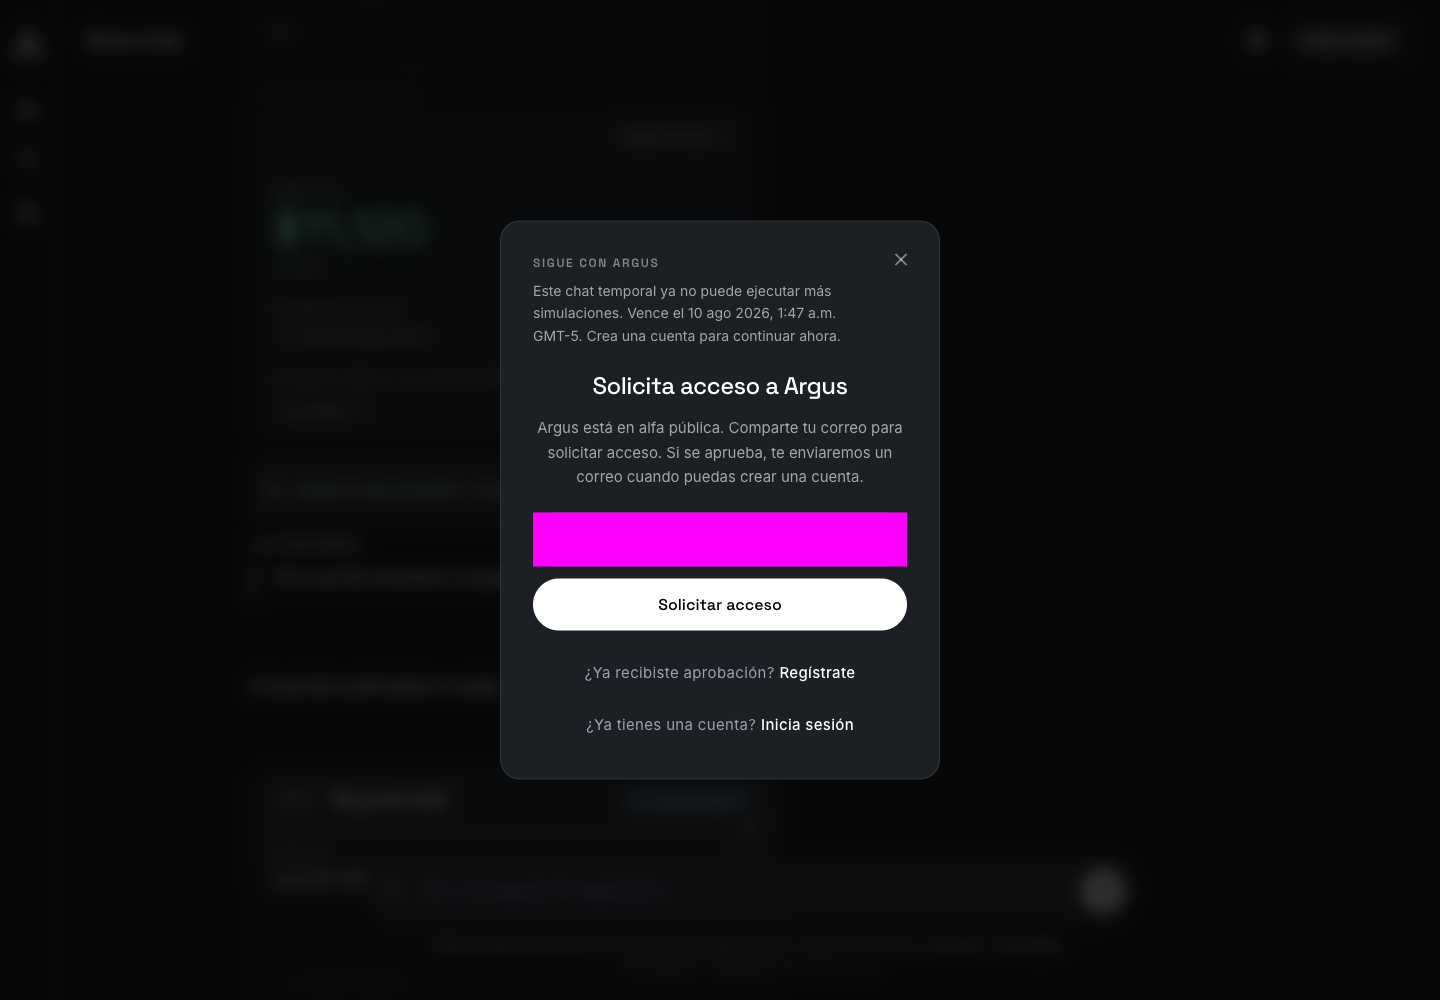
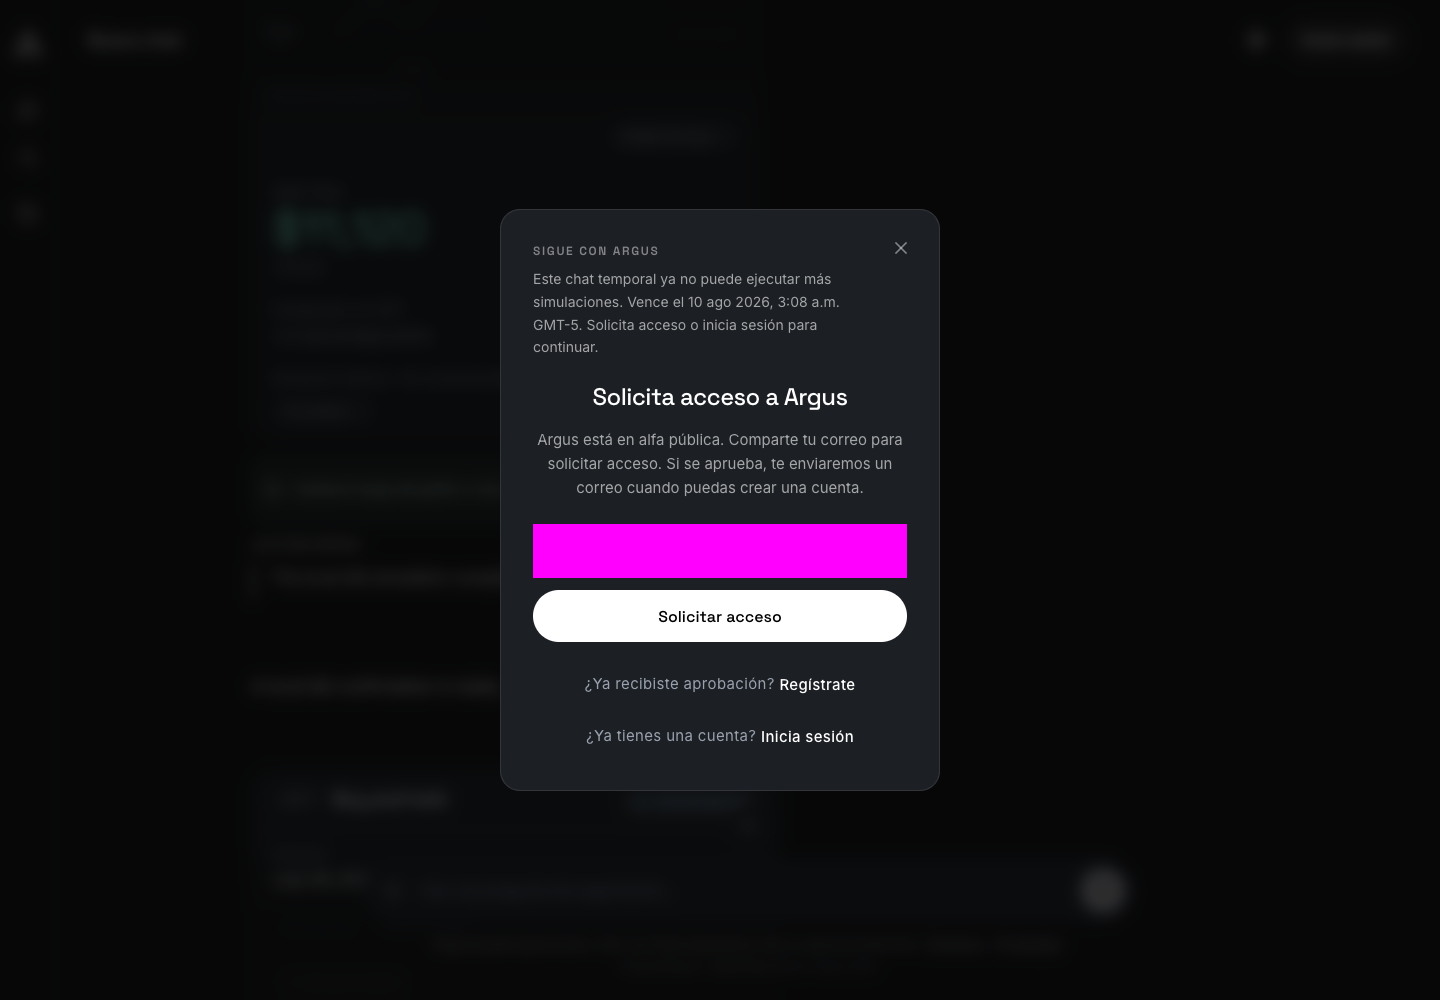
docs(evidence): capture guest quota recovery

diff --git a/docs/reports/evidence/issue-346/README.md b/docs/reports/evidence/issue-346/README.md
@@ -3,6 +3,12 @@
 This directory contains the exact-head local-Supabase browser captures for the
 guest simulation exhaustion recovery modal.
 
+Captured at candidate head `642d00b43db4861f48e3937c52e0de24b6c73c17` on
+2026-08-03 after a fresh `supabase db reset --local` applied
+`20260802090000_raise_guest_simulation_allowance.sql`. The browser acceptance
+journey exhausted the two-simulation workspace allowance, then verified the
+truthful reset time and conversion offer in both languages.
+
 - `guest-quota-recovery-en.png` verifies the English reset-time and conversion
   offer after the two-simulation allowance is exhausted.
 - `guest-quota-recovery-es-419.png` verifies the equivalent Spanish surface.
@@ -11,6 +17,7 @@ Capture command (with the candidate SHA pinned at execution):
 
 ```bash
 ARGUS_EXPECTED_CANDIDATE_SHA="$(git rev-parse HEAD)" \
+  ARGUS_GUEST_QA_CAPTURE_DURABLE_EVIDENCE=true \
   ARGUS_GUEST_QA_APP_PORT=59900 \
   ARGUS_GUEST_QA_API_PORT=59901 \
   bash scripts/qa/run-guest-experience-qa.sh preflight \
